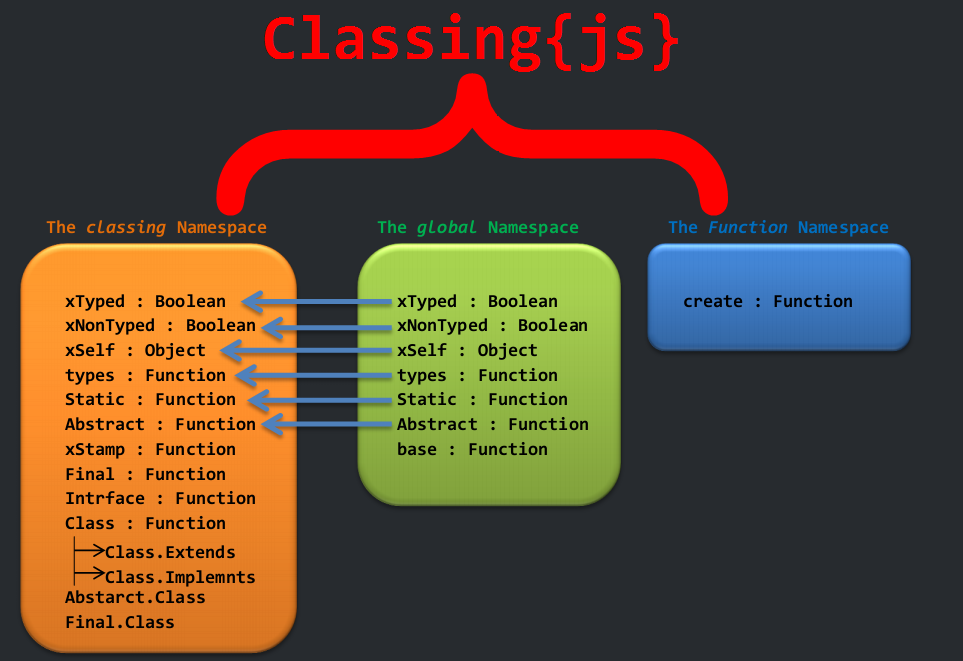
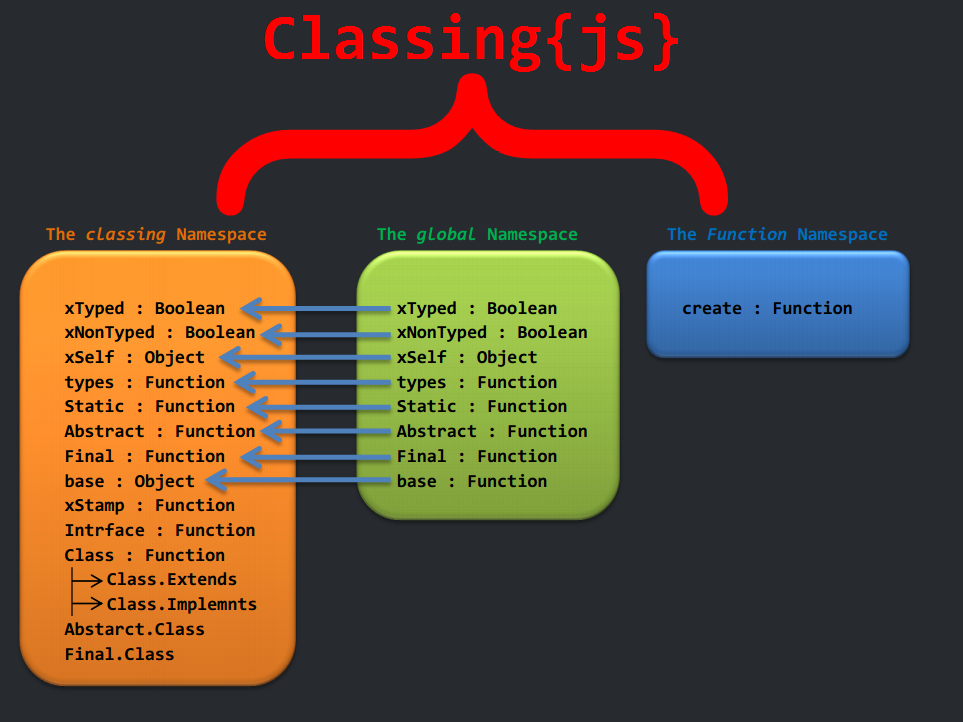
Updated Website

Changed region(s): [[0.0, 0.1513, 0.9657, 0.9985], [0.2804, 0.0303, 0.7165, 0.121], [0.6542, 0.4236, 0.9657, 0.5446]]

diff --git a/classingjs/index.html b/classingjs/index.html
@@ -41,7 +41,7 @@
 							<h2>No Pre-processing.</h2>
 							<h2>Write your classes directly into your javascript code, and it's ready to run.</h2>
 							<br/>
-							<a href="https://github.com/Mostafa-Samir/Classing-js/archive/v1.0.3.zip" class="btn btn-large btn-success">Download</a>
+							<a href="https://github.com/Mostafa-Samir/Classing-js/archive/v1.1.0.zip" class="btn btn-large btn-success">Download</a>
 							<span class="gap" data-length="1"></span>
 							<a href="https://github.com/Mostafa-Samir/Classing-js" target = "_blank" class="btn btn-large">Github</a>
 							<a href="https://twitter.com/classing_js" target="_blank" class="btn btn-large">Twitter</a>
@@ -141,7 +141,7 @@ var Singleton = classing.Class({
 						<br/>
 						<br/>
 						<br/>
-						<h3 align="center">Works on all modern browsers</h3>
+						<h3 align="center">Works on all modern browsers and on Node.js</h3>
 						<!--
 							The browsers icons in the following image are from :
 							http://fredhq.com/projects/browser-icons 
@@ -153,22 +153,45 @@ var Singleton = classing.Class({
 
 				<div class = "row-fluid">
 					<div class = "span8">
-						<h1>Get Started</h1>
+						<h1 style="margin-bottom:0px;">Get Started</h1>
+						<span id = "_browser_wrap" style = "padding-left: 200px;" class = "env-mode env-mode-selected"><a id = "_browser" href="#">Browser</a></span>
+						<span id = "_node_wrap"style = "padding-left:20px;"class = "env-mode"><a id = "_node" href= "#">Node.js</a></span>
+						<div id="env-browser" style="height:331px;">
 						<ol style = "padding-left:40px;">
 							<h3><li>Download</li></h3>
-							<a href="https://raw.github.com/Mostafa-Samir/Classing-js/master/dist/classing.1.0.3.min.js" class="btn btn-large btn-inverse" target="_blank">Download The Minified Version<br/>Without Comments<br/>(~ 19KB)</a>
-							<a href="https://raw.github.com/Mostafa-Samir/Classing-js/master/dist/classing.1.0.3.js" class="btn btn-large btn-inverse" target="_blank">Download The Unminified Version<br/>With Comments<br/>(~ 48KB)</a>
+							<a href="https://raw.github.com/Mostafa-Samir/Classing-js/master/dist/classing.1.1.0.min.js" class="btn btn-large btn-inverse" target="_blank">Download The Minified Version<br/>Without Comments<br/>(~ 20KB)</a>
+							<a href="https://raw.github.com/Mostafa-Samir/Classing-js/master/dist/classing.1.1.0.js" class="btn btn-large btn-inverse" target="_blank">Download The Unminified Version<br/>With Comments<br/>(~ 49KB)</a>
 							<p>&nbsp</p>
 							<h3><li>Include the library in your application</li></h3>
 							<p>just put a <code>script</code> tag in your HTML file with its <code>src</code> pointing to the library's file.</p>
 							<div style = "width:520px;">
 							<pre id="inclusion">
-&#60;script type="text/javascript" src = "classing.1.0.3.js"&#62;&#60;/script&#62;
+&#60;script type="text/javascript" src = "classing.1.1.0.js"&#62;&#60;/script&#62;
 							</pre>
 							</div>
 							<p>&nbsp</p>
 							<h3><li>Get ready for coding ...</li></h3>
 						</ol>
+						</div>
+
+						<div id="env-node" style="display:none;height:331px;">
+						<ol style = "padding-left:40px;">
+							<h3><li>Download</li></h3>
+							Install the modulee via npm:
+							<pre id="install">
+npm install classing-js
+							</pre>
+							<h3><li>Include the module in your application</li></h3>
+							<p>simply use <code>require</code> in your node application
+							<div style = "width:520px;">
+							<pre id="node-inclusion">
+var classing = require('classing-js');
+							</pre>
+							</div>
+							<p>&nbsp</p>
+							<h3><li>Get ready for coding ...</li></h3>
+						</ol>
+						</div>
 					</div>
 					<div class = "span4 well">
 						<h3>Get Familiar <img src = "img/getfamiliar.png"/></h3>
@@ -184,7 +207,7 @@ var Singleton = classing.Class({
 			<div class = "footer" style="background:black;font-family:monospace;">
 				<p align="center" style = "padding-top:10.5px;">Developed By : <span id = "reach" style = "color:white;">Mostafa Samir</span></p>
 				<p align="center">Code licensed under <a href="https://github.com/Mostafa-Samir/Classing-js/blob/master/LICENSE" target="_blank">MIT License</a></p>
-				<p align="center">Current Version : <a href="news.html#v103"> v1.0.3</a></p>
+				<p align="center">Current Version : <a href="news.html#v110"> v1.1.0</a></p>
 				<p align="center" style = "margin-bottom:0px;padding-bottom:10.5px">Follow on: <a href="https://github.com/Mostafa-Samir/Classing-js" target="_blank">Github</a> , <a href="https://twitter.com/classing_js" target="_blank">Twitter</a></p>
 			</div>
 		
@@ -242,6 +265,12 @@ var Singleton = classing.Class({
 				$("#inclusion").snippet("html" , opts);
 				$("#inclusion ul li:last").remove();
 
+				$("#node-inclusion").snippet("html" , opts);
+				$("#node-inclusion ul li:last").remove();
+
+				$("#install").snippet("html" , opts);
+				//$("#install ul li:last").remove();
+
 				$(".gap").each(function(){
 					var length = parseInt($(this).attr("data-length"));
 					var content = "";
@@ -249,6 +278,22 @@ var Singleton = classing.Class({
 						content += "&nbsp";
 					}
 					$(this).html(content);
+				});
+
+				$("#_node").click(function(e){
+					e.preventDefault();
+					$("#env-browser").css({'display' : 'none'});
+					$("#env-node").css({'display' : 'block'});
+					$("#_browser_wrap").removeClass("env-mode-selected");
+					$("#_node_wrap").addClass("env-mode-selected");
+				});
+
+				$("#_browser").click(function(e){
+					e.preventDefault();
+					$("#env-node").css({'display' : 'none'});
+					$("#env-browser").css({'display' : 'block'});
+					$("#_browser_wrap").addClass("env-mode-selected");
+					$("#_node_wrap").removeClass("env-mode-selected");
 				});
 
 				$("#examples").css({
@@ -263,7 +308,7 @@ var Singleton = classing.Class({
 				$("#compitability").popover({
 					title : "Compitability",
 					html : true,
-					content : "Chrome 7+<br/>Firefox 4+<br/>IE 9+<br/>Safari 6+<br/>Opera 11.60+",
+					content : "Chrome 7+<br/>Firefox 4+<br/>IE 9+<br/>Safari 6+<br/>Opera 11.60+<br/>Node.js 0.10.29+",
 					placement: "bottom"
 				});
 

diff --git a/classingjs/news.html b/classingjs/news.html
@@ -38,6 +38,18 @@
 			<div class = "span2">
 			</div>
 			<div class = "span10">
+			<div class="news" id="v110" style="width:591px;">
+					<h2>Version 1.1.0 Released</h2>
+					<h4>16/7/2014</h4>
+					<h3>Changes:</h3>
+					<ul>
+						<li><code>base</code> is now included in the <code>classing</code> namespace with un-modifiable global shortcut.</li>
+
+						<li>A Node.js module is introduced.</li>
+					</ul>
+				</div>
+				<br/>
+				<br/>
 				<div class="news" id="v103" style="width:591px;">
 					<h2>Version 1.0.3 Released</h2>
 					<h4>5/24/2014</h4>
@@ -93,7 +105,7 @@
 		<div class = "footer" style="background:black;font-family:monospace;">
 			<p align="center" style = "padding-top:10.5px;">Developed By : <span id = "reach" style = "color:white;">Mostafa Samir</span></p>
 			<p align="center">Code licensed under <a href="https://github.com/Mostafa-Samir/Classing-js/blob/master/LICENSE" target="_blank">MIT License</a></p>
-			<p align="center">Current Version : <a href="news.html#v103"> v1.0.3</a></p>
+			<p align="center">Current Version : <a href="news.html#v110"> v1.1.0</a></p>
 			<p align="center" style = "margin-bottom:0px;padding-bottom:10.5px">Follow on: <a href="https://github.com/Mostafa-Samir/Classing-js" target="_blank">Github</a> , <a href="https://twitter.com/classing_js" target="_blank">Twitter</a></p>
 		</div>
 

diff --git a/classingjs/tutorial/inheritance.html b/classingjs/tutorial/inheritance.html
@@ -250,7 +250,7 @@ var ImpossibleChild = classing.Class.Extends(InfertileChild)({}) //throws an err
 		<div class = "footer" style="background:black;font-family:monospace;">
 			<p align="center" style = "padding-top:10.5px;">Developed By : <span id = "reach" style = "color:white;">Mostafa Samir</span></p>
 			<p align="center">Code licensed under <a href="https://github.com/Mostafa-Samir/Classing-js/blob/master/LICENSE" target="_blank">MIT License</a></p>
-			<p align="center">Current Version : <a href="../news.html#v103"> v1.0.3</a></p>
+			<p align="center">Current Version : <a href="../news.html#v110"> v1.1.0</a></p>
 			<p align="center" style = "margin-bottom:0px;padding-bottom:10.5px">Follow on: <a href="https://github.com/Mostafa-Samir/Classing-js" target="_blank">Github</a> , <a href="https://twitter.com/classing_js" target="_blank">Twitter</a></p>
 		</div>
 

diff --git a/classingjs/tutorial/interfaces.html b/classingjs/tutorial/interfaces.html
@@ -165,7 +165,7 @@ var FullTimeEmployee = classing.Class.Extends(Person).Implements(IPayable , IPro
 		<div class = "footer" style="background:black;font-family:monospace;">
 			<p align="center" style = "padding-top:10.5px;">Developed By : <span id = "reach" style = "color:white;">Mostafa Samir</span></p>
 			<p align="center">Code licensed under <a href="https://github.com/Mostafa-Samir/Classing-js/blob/master/LICENSE" target="_blank">MIT License</a></p>
-			<p align="center">Current Version : <a href="../news.html#v103"> v1.0.3</a></p>
+			<p align="center">Current Version : <a href="../news.html#v110"> v1.1.0</a></p>
 			<p align="center" style = "margin-bottom:0px;padding-bottom:10.5px">Follow on: <a href="https://github.com/Mostafa-Samir/Classing-js" target="_blank">Github</a> , <a href="https://twitter.com/classing_js" target="_blank">Twitter</a></p>
 		</div>
 

diff --git a/classingjs/tutorial/classes.html b/classingjs/tutorial/classes.html
@@ -296,7 +296,7 @@ var record1 = new PhoneBookRecord("John Doe" , "102-3456789");
 		<div class = "footer" style="background:black;font-family:monospace;">
 			<p align="center" style = "padding-top:10.5px;">Developed By : <span id = "reach" style = "color:white;">Mostafa Samir</span></p>
 			<p align="center">Code licensed under <a href="https://github.com/Mostafa-Samir/Classing-js/blob/master/LICENSE" target="_blank">MIT License</a></p>
-			<p align="center">Current Version : <a href="../news.html#v103"> v1.0.3</a></p>
+			<p align="center">Current Version : <a href="../news.html#v110"> v1.1.0</a></p>
 			<p align="center" style = "margin-bottom:0px;padding-bottom:10.5px">Follow on: <a href="https://github.com/Mostafa-Samir/Classing-js" target="_blank">Github</a> , <a href="https://twitter.com/classing_js" target="_blank">Twitter</a></p>
 		</div>
 

diff --git a/classingjs/tutorial/abstract.html b/classingjs/tutorial/abstract.html
@@ -126,7 +126,7 @@ var Square = classing.Class.Extends(Quadrilateral)({
 		<div class = "footer" style="background:black;font-family:monospace;">
 			<p align="center" style = "padding-top:10.5px;">Developed By : <span id = "reach" style = "color:white;">Mostafa Samir</span></p>
 			<p align="center">Code licensed under <a href="https://github.com/Mostafa-Samir/Classing-js/blob/master/LICENSE" target="_blank">MIT License</a></p>
-			<p align="center">Current Version : <a href="../news.html#v103"> v1.0.3</a></p>
+			<p align="center">Current Version : <a href="../news.html#v110"> v1.1.0</a></p>
 			<p align="center" style = "margin-bottom:0px;padding-bottom:10.5px">Follow on: <a href="https://github.com/Mostafa-Samir/Classing-js" target="_blank">Github</a> , <a href="https://twitter.com/classing_js" target="_blank">Twitter</a></p>
 		</div>
 

diff --git a/classingjs/tutorial/overload.html b/classingjs/tutorial/overload.html
@@ -248,7 +248,7 @@ add(new Human(41) , new Human(16)); //Ok
 		<div class = "footer" style="background:black;font-family:monospace;">
 			<p align="center" style = "padding-top:10.5px;">Developed By : <span id = "reach" style = "color:white;">Mostafa Samir</span></p>
 			<p align="center">Code licensed under <a href="https://github.com/Mostafa-Samir/Classing-js/blob/master/LICENSE" target="_blank">MIT License</a></p>
-			<p align="center">Current Version : <a href="../news.html#v103"> v1.0.3</a></p>
+			<p align="center">Current Version : <a href="../news.html#v110"> v1.1.0</a></p>
 			<p align="center" style = "margin-bottom:0px;padding-bottom:10.5px">Follow on: <a href="https://github.com/Mostafa-Samir/Classing-js" target="_blank">Github</a> , <a href="https://twitter.com/classing_js" target="_blank">Twitter</a></p>
 		</div>
 

diff --git a/classingjs/tutorial/instanceof.html b/classingjs/tutorial/instanceof.html
@@ -115,7 +115,7 @@ emp1.instsnceOf(Array); //false
 		<div class = "footer" style="background:black;font-family:monospace;">
 			<p align="center" style = "padding-top:10.5px;">Developed By : <span id = "reach" style = "color:white;">Mostafa Samir</span></p>
 			<p align="center">Code licensed under <a href="https://github.com/Mostafa-Samir/Classing-js/blob/master/LICENSE" target="_blank">MIT License</a></p>
-			<p align="center">Current Version : <a href="../news.html#v103"> v1.0.3</a></p>
+			<p align="center">Current Version : <a href="../news.html#v110"> v1.1.0</a></p>
 			<p align="center" style = "margin-bottom:0px;padding-bottom:10.5px">Follow on: <a href="https://github.com/Mostafa-Samir/Classing-js" target="_blank">Github</a> , <a href="https://twitter.com/classing_js" target="_blank">Twitter</a></p>
 		</div>
 

diff --git a/classingjs/api.html b/classingjs/api.html
@@ -493,7 +493,7 @@ obj.instanceOf(Object); //true;
 		<div class = "footer" style="background:black;font-family:monospace;">
 			<p align="center" style = "padding-top:10.5px;">Developed By : <span id = "reach" style = "color:white;">Mostafa Samir</span></p>
 			<p align="center">Code licensed under <a href="https://github.com/Mostafa-Samir/Classing-js/blob/master/LICENSE" target="_blank">MIT License</a></p>
-			<p align="center">Current Version : <a href="news.html#v103"> v1.0.3</a></p>
+			<p align="center">Current Version : <a href="news.html#v110"> v1.1.0</a></p>
 			<p align="center" style = "margin-bottom:0px;padding-bottom:10.5px">Follow on: <a href="https://github.com/Mostafa-Samir/Classing-js" target="_blank">Github</a> , <a href="https://twitter.com/classing_js" target="_blank">Twitter</a></p>
 		</div>
 

diff --git a/classingjs/tutorial/structure.html b/classingjs/tutorial/structure.html
@@ -69,7 +69,7 @@
 		<div class = "footer" style="background:black;font-family:monospace;">
 			<p align="center" style = "padding-top:10.5px;">Developed By : <span id = "reach" style = "color:white;">Mostafa Samir</span></p>
 			<p align="center">Code licensed under <a href="https://github.com/Mostafa-Samir/Classing-js/blob/master/LICENSE" target="_blank">MIT License</a></p>
-			<p align="center">Current Version : <a href="../news.html#v103"> v1.0.3</a></p>
+			<p align="center">Current Version : <a href="../news.html#v110"> v1.1.0</a></p>
 			<p align="center" style = "margin-bottom:0px;padding-bottom:10.5px">Follow on: <a href="https://github.com/Mostafa-Samir/Classing-js" target="_blank">Github</a> , <a href="https://twitter.com/classing_js" target="_blank">Twitter</a></p>
 		</div>
 

diff --git a/classingjs/about.html b/classingjs/about.html
@@ -53,7 +53,7 @@
 		<div class = "footer" style="background:black;font-family:monospace;">
 			<p align="center" style = "padding-top:10.5px;">Developed By : <span id = "reach" style = "color:white;">Mostafa Samir</span></p>
 			<p align="center">Code licensed under <a href="https://github.com/Mostafa-Samir/Classing-js/blob/master/LICENSE" target="_blank">MIT License</a></p>
-			<p align="center">Current Version : <a href="news.html#v103"> v1.0.3</a></p>
+			<p align="center">Current Version : <a href="news.html#v110"> v1.1.0</a></p>
 			<p align="center" style = "margin-bottom:0px;padding-bottom:10.5px">Follow on: <a href="https://github.com/Mostafa-Samir/Classing-js" target="_blank">Github</a> , <a href="https://twitter.com/classing_js" target="_blank">Twitter</a></p>
 		</div>
 

diff --git a/classingjs/css/override.bootstrap.slate.css b/classingjs/css/override.bootstrap.slate.css
@@ -37,3 +37,17 @@
 .footer{
 	border-top-style:double;
 }
+
+.env-mode {
+	font-family: Consolas;
+	font-size: 20px;
+}
+
+.env-mode a:hover {
+	text-decoration: none;
+	border-bottom: dotted 1px white;
+}
+
+.env-mode-selected a {
+	border-bottom: dotted 1px white;
+}
